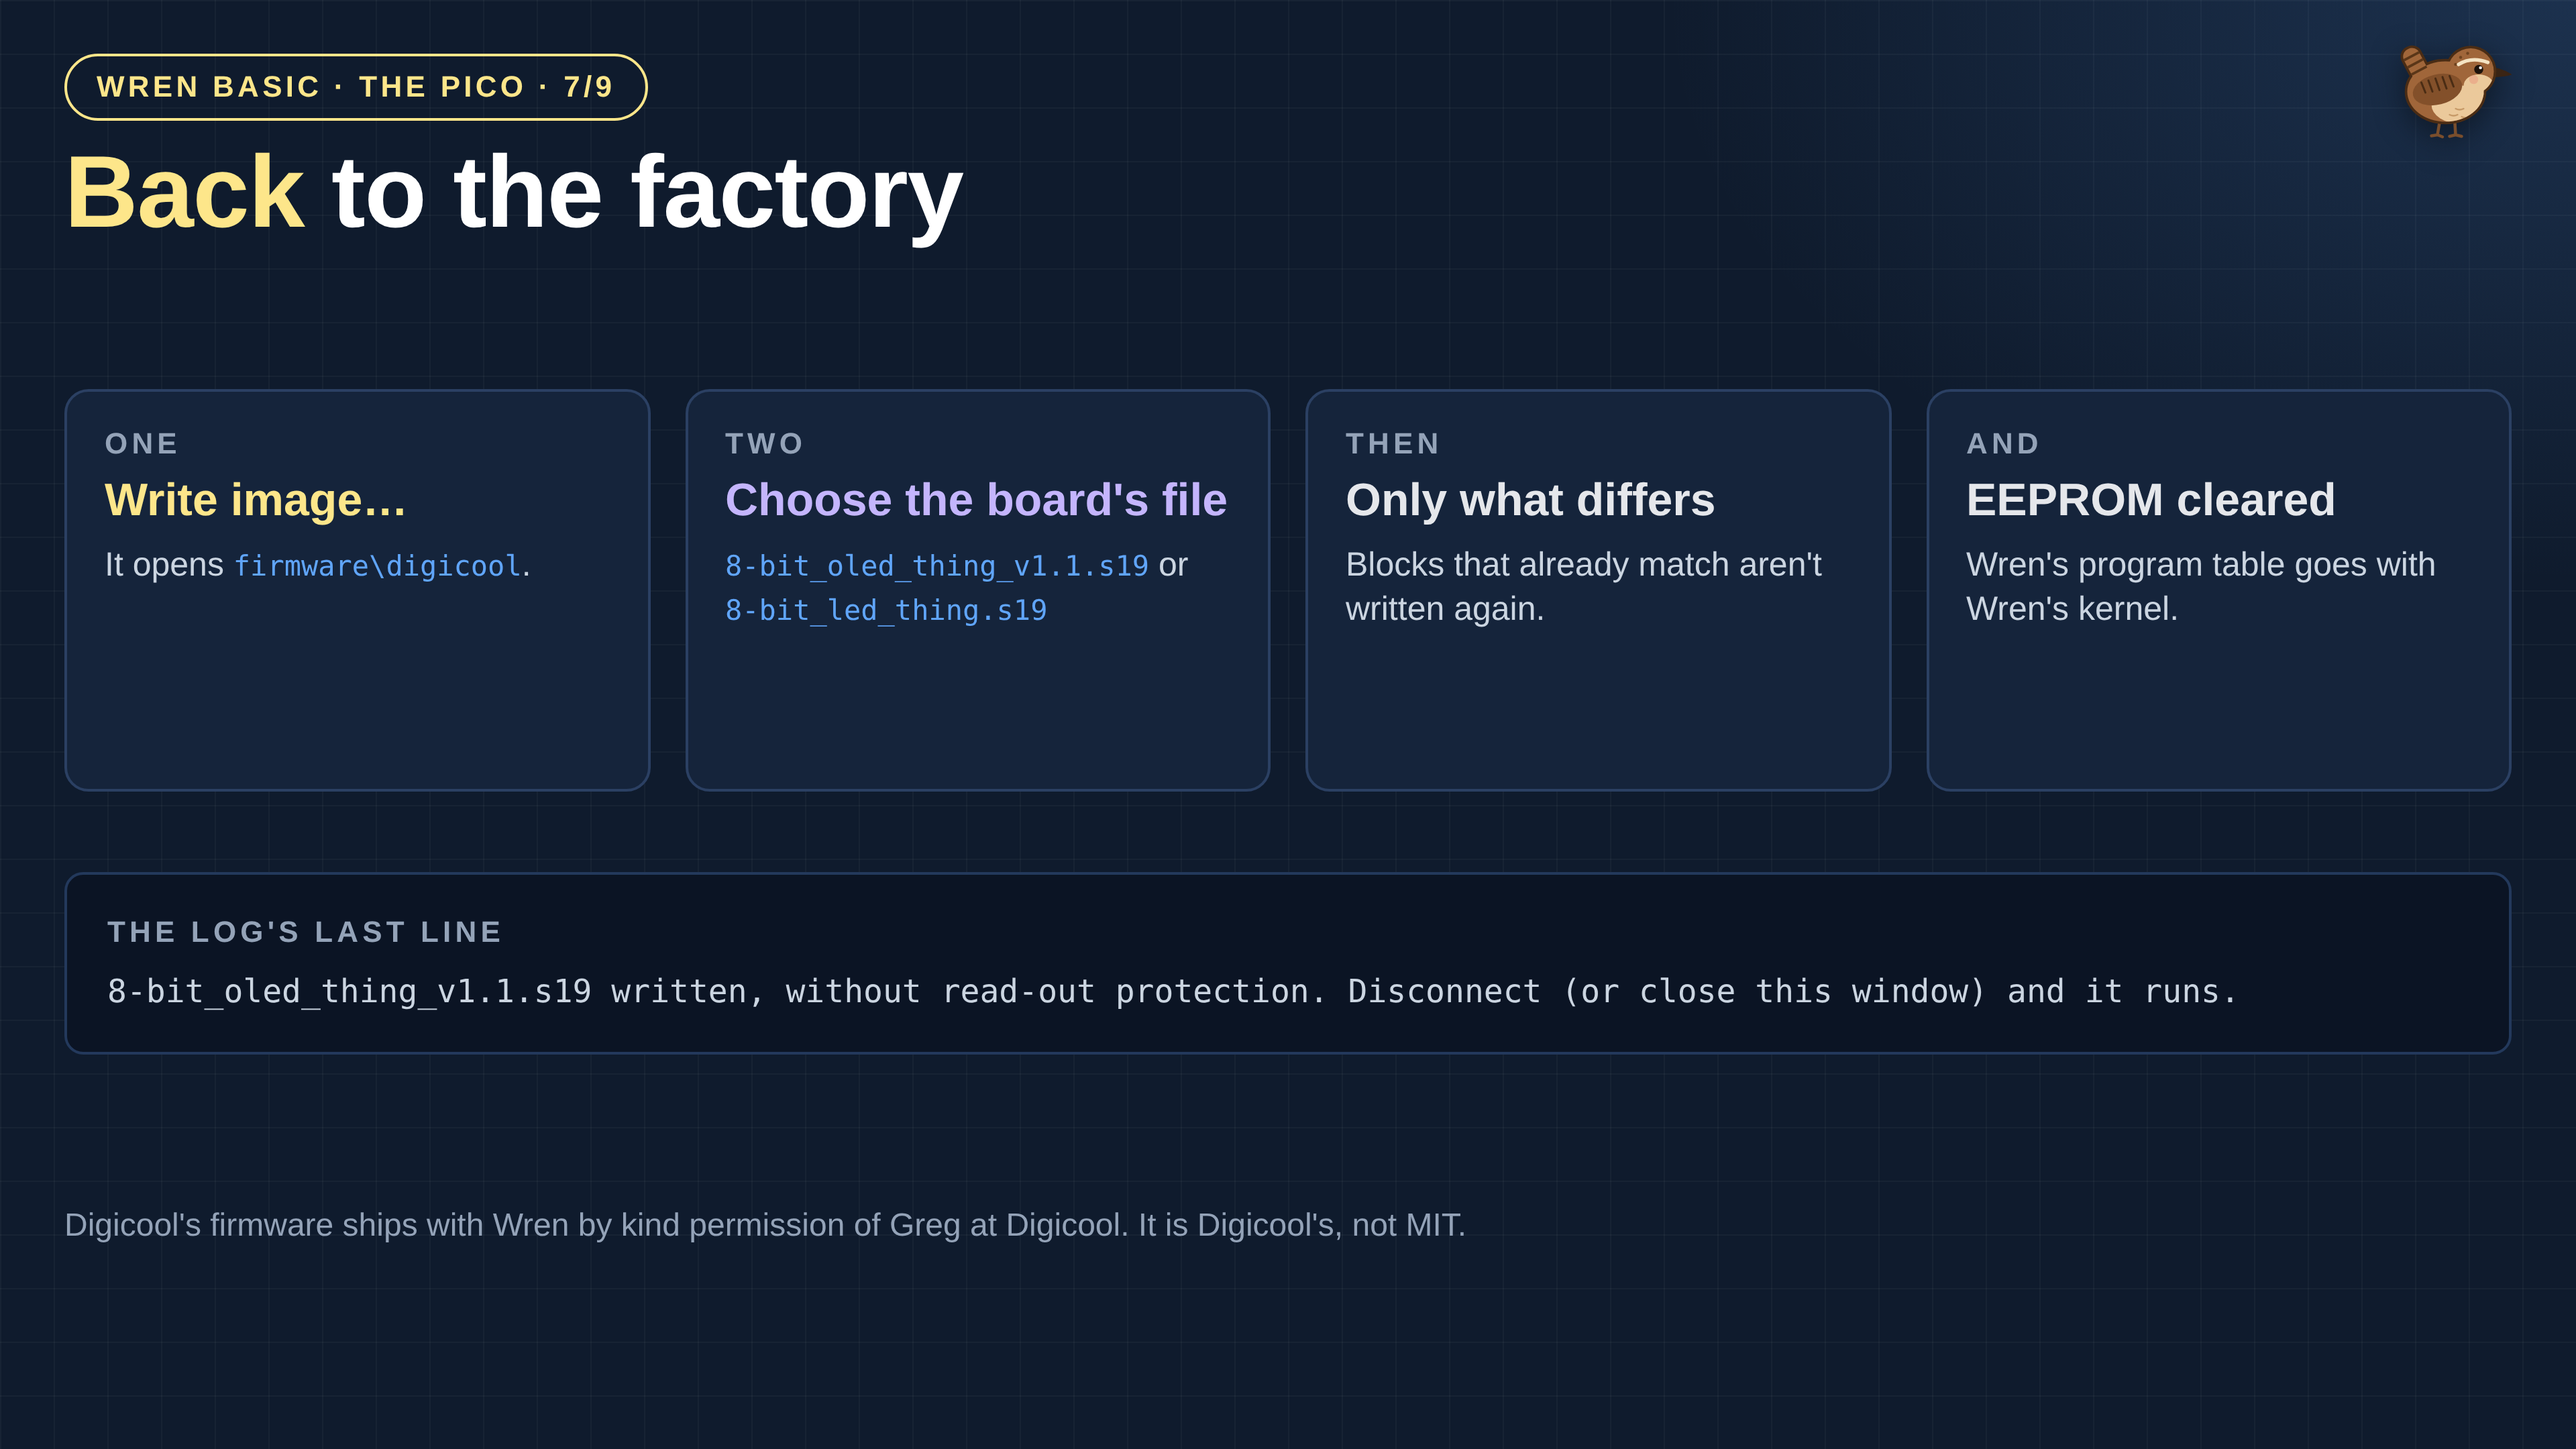
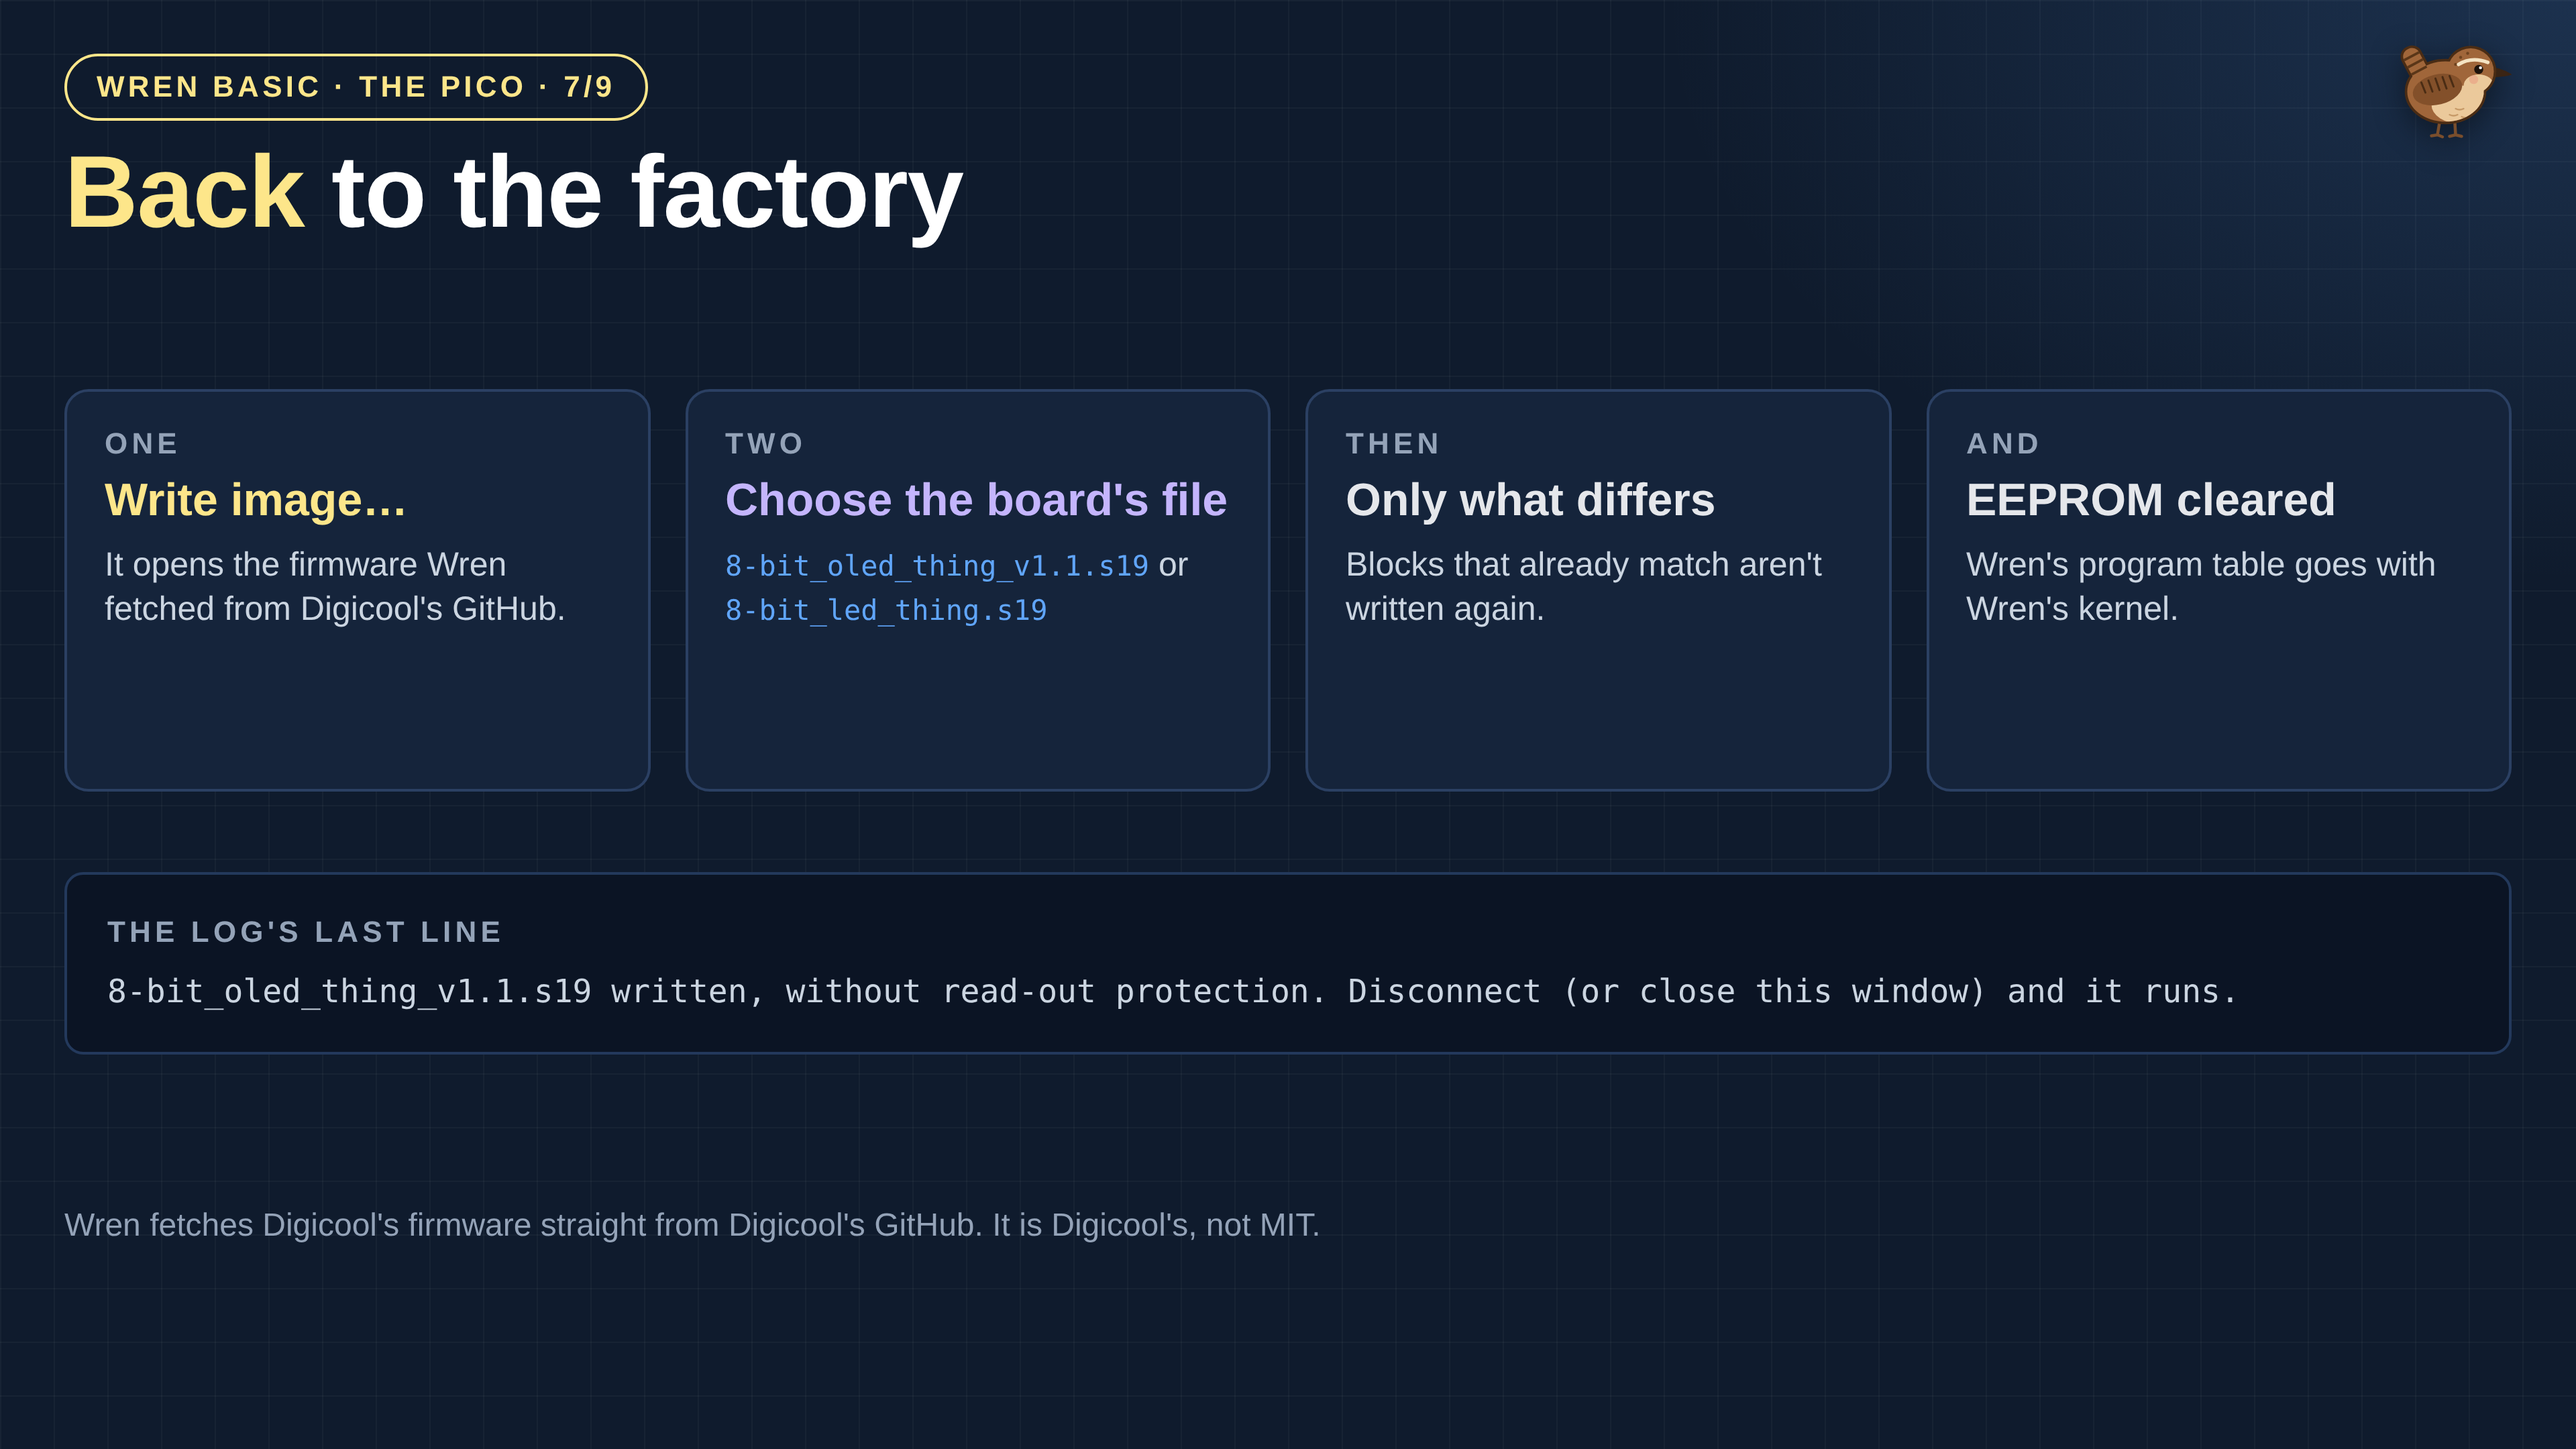
Videos: the factory slide and its narration say Wren fetches Digicool's firmware
Wren_02_07_Factory (re-rendered): Write image... opens the firmware fetched from
Digicool's GitHub, and the credit says so. Wren_02_Pico's narration likewise. Two
slides' source comments cite Digicool's file on GitHub instead of the removed README.

Claude-Session: https://claude.ai/code/session_01PM169qrH4mH2uiYQRpnWtD

Changed region(s): [[0.0312, 0.8375, 0.5625, 0.8685], [0.0312, 0.3722, 0.2188, 0.4343]]

diff --git a/docs/Videos/Infographics/Wren_02/Wren_02_07_Factory.html b/docs/Videos/Infographics/Wren_02/Wren_02_07_Factory.html
@@ -11,10 +11,12 @@
 
   Sources:
     - Write image…: docs/PicoLink.md (Using it in Wren; Read-out protection and factory firmware):
-      it opens firmware/digicool; a choice of file and two clicks; only blocks that differ are
+      it opens the folder of Digicool's firmware fetched from Digicool's GitHub; a choice of
+      file and two clicks; only blocks that differ are
       written, then checked; the EEPROM is cleared; an image without option bytes, like
       Digicool's, leaves read-out protection off; a protected chip is erased first.
-    - The files: firmware/digicool/README.md (with Greg's permission; not MIT).
+    - The files and where they come from: docs/Design.md (Digicool's firmware on this machine):
+      fetched from the Firmware folders of Digicool's GitHub; Digicool's, not MIT.
     - The last log line: the run against the simulated Pico, writing 8-bit_oled_thing_v1.1.s19.
 -->
 <html lang="en">
@@ -182,13 +184,13 @@
 </svg><!--/WREN--></div>
 <h1 class="rise">Back <span>to the factory</span></h1>
 <div class="flow">
-  <div class="fl rise d1"><div class="k">ONE</div><h3 class="kernel">Write image…</h3><p>It opens <code>firmware\digicool</code>.</p></div>
+  <div class="fl rise d1"><div class="k">ONE</div><h3 class="kernel">Write image…</h3><p>It opens the firmware Wren fetched from Digicool's GitHub.</p></div>
   <div class="fl rise d2"><div class="k">TWO</div><h3 class="thing">Choose the board's file</h3><p><code>8-bit_oled_thing_v1.1.s19</code> or <code>8-bit_led_thing.s19</code></p></div>
   <div class="fl rise d3"><div class="k">THEN</div><h3>Only what differs</h3><p>Blocks that already match aren't written again.</p></div>
   <div class="fl rise d4"><div class="k">AND</div><h3>EEPROM cleared</h3><p>Wren's program table goes with Wren's kernel.</p></div>
 </div>
 <div class="log rise d5"><div class="label">THE LOG'S LAST LINE</div>8-bit_oled_thing_v1.1.s19 written, without read-out protection. Disconnect (or close this window) and it runs.</div>
-<div class="credit fade d6">Digicool's firmware ships with Wren by kind permission of Greg at Digicool. It is Digicool's, not MIT.</div>
+<div class="credit fade d6">Wren fetches Digicool's firmware straight from Digicool's GitHub. It is Digicool's, not MIT.</div>
 <!--NAV--><a class="nav prev" href="Wren_02_06b_LedThing.html" aria-label="Previous slide"></a><a class="nav next" href="Wren_02_07b_Factory.html" aria-label="Next slide"></a><!--/NAV-->
 </body>
 </html>

diff --git a/docs/Videos/Infographics/Wren_01/Wren_01_03_WhatFits.html b/docs/Videos/Infographics/Wren_01/Wren_01_03_WhatFits.html
@@ -16,7 +16,7 @@
     - The programs' sizes: Wren's compiler (Compiler.Compile) on the files in programs/ as they
       are; the app's Build (F7) message says the same, "Built Snake.bas: 834 bytes in 14 blocks."
       OledThing.bas 502, Pong.bas 513, LedThing.bas 625, Snake.bas 834, RotatedHex.bas 986.
-    - Digicool's factory firmware: 7,806 bytes of flash, compiled C (firmware/digicool/README.md).
+    - Digicool's factory firmware: 7,806 bytes of flash, compiled C (8-bit_oled_thing_v1.1.s19 on Digicool's GitHub).
     - The bars are to scale: the flash bar at 1,800 px for 8,192 bytes; the store's bars at 0.2 px a
       byte; the comparison's at 616 px for 7,806 bytes.
 -->

diff --git a/docs/Videos/Infographics/Wren_05/Wren_05_01_HundredWrites.html b/docs/Videos/Infographics/Wren_05/Wren_05_01_HundredWrites.html
@@ -13,7 +13,7 @@
     - Flash: 8 KB, 128 blocks of 64 bytes; a block is the unit of erase and programming; ~100 writes
       a block; a whole-block write is one wear cycle. EEPROM ~100k writes (docs/Design.md, Flash and
       EEPROM; docs/OledThing.md U1).
-    - Digicool's factory firmware: 7,806 bytes, $8000-$9E7D (firmware/digicool/README.md): 122
+    - Digicool's factory firmware: 7,806 bytes, $8000-$9E7D (8-bit_oled_thing_v1.1.s19 on Digicool's GitHub): 122
       blocks of 64 bytes, all written with every reflash of the image.
     - The bar is the chip's 128 blocks, to scale.
 -->

diff --git a/docs/Videos/Wren_02_Pico.md b/docs/Videos/Wren_02_Pico.md
@@ -99,7 +99,7 @@ The wiring sheet: docs/Infographics/Pico_Programmer_Wiring.png in the repository
 
 ## Back to the factory
 
-> Wren isn't a one-way door. Greg at Digicool kindly lets Wren carry the boards' own firmware, so putting one back the way it came is two clicks.
+> Wren isn't a one-way door. It fetches the boards' own firmware straight from Digicool's GitHub, so putting one back the way it came is two clicks.
 
 > Even a chip that's been locked against reading can be brought back. It just has to be erased first.
 
